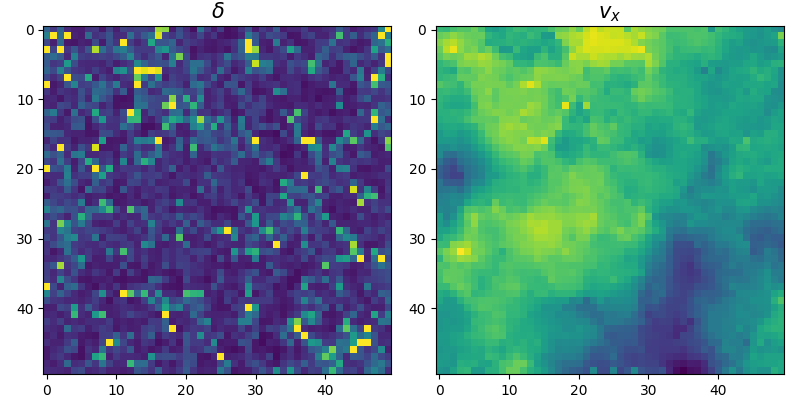
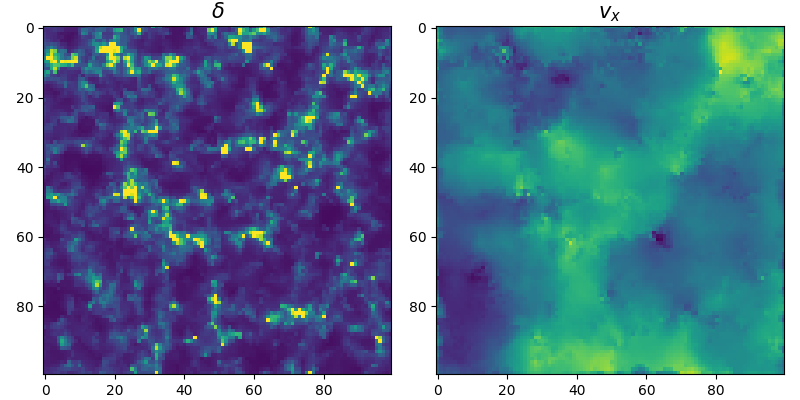
update

diff --git a/README.md b/README.md
@@ -40,8 +40,8 @@ import sys
 sys.path.append("/path/to/pyDTFE/location")
 from pyDTFE import DTFE_3D
 
-L = 120
-N = 50
+L = 60          # Mpc/h
+N = 100
 pos = np.fromfile( DATA_PATH_POS, dtype="float32" )  # shape(Nparticles, 3)
 vel = np.fromfile( DATA_PATH_VEL, dtype="float32" )  # shape(Nparticles, 3)
 dtfe = DTFE_3D( pos, L=L, Nmesh=N)
@@ -50,7 +50,7 @@ dens = results[0 ]    # shape(N, N, N)
 velo = results[1:]    # shape(3, N, N, N)
 ```
 
-Below is the result (note that the number density in this quick example is low, which may cause it to appear noisy).
+Below shows the result (note that the number density in this quick example is low, which may cause it to appear noisy).
 
 ```python
 fig, axes = plt.subplots( 1, 2, dpi=100, figsize=(8, 4) )
